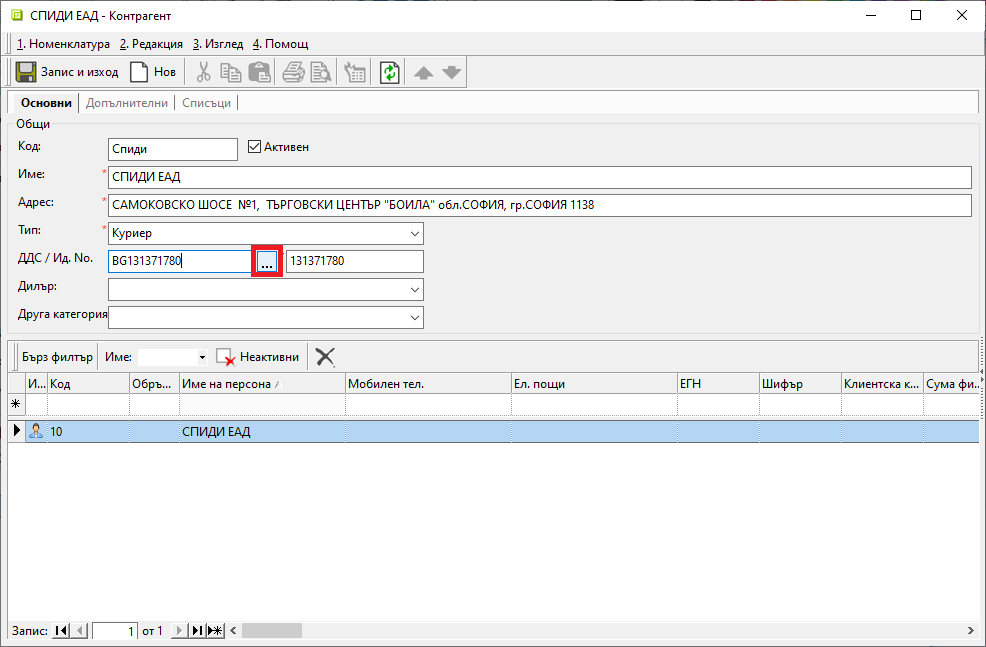
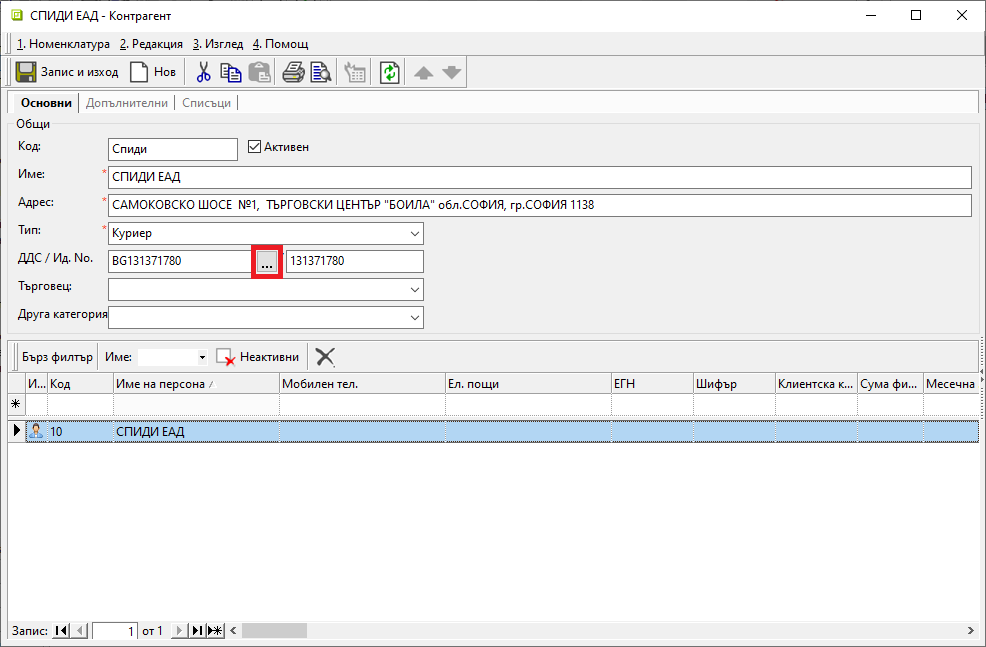
Редактиране от "дилър" на "търговец"

diff --git a/guide/erp/001-ref/001-nomenclatures/002-contragents.md b/guide/erp/001-ref/001-nomenclatures/002-contragents.md
@@ -45,7 +45,7 @@
    Типовете контрагенти се  въвеждат предварително в системата от **Номенклатури » Референтни номенклатури » Търговска система: Типове контрагенти**.  
    - **ДДС/ Ид. No** – записва се ДДС или идентификационния номер (булстат) номер на контрагента.  
    Реквизитът е задължителен само в случаите, когато контрагентът е данъчно регистриран;  
-   - **Дилър** – в полето може да се настрои служител, отговарящ за отношенията с контрагента;  
+   - **Търговец** – в полето може да се настрои служител, отговарящ за отношенията с контрагента;  
    - **Група** - избира се към коя предварително въведена категория принадлежи контрагентът;  
 
    От реда за добавяне на нов запис се въвежда списък с *Персони*.  
@@ -87,11 +87,11 @@
    - **Контакт** - указва дали персоната на реда е основното (или по подразбиране) лице за контакт с текущия контрагент;  
    Само една персона може да бъде настроена като *Контакт*.  
    - **МОЛ** - чрез поставяне/махане на отметка персоната на реда се маркира като *МОЛ*;  
-   - **Дилър** - чрез поставяне/махане на отметка персоната на реда се маркира като *Дилър*;  
+   - **Търговец** - чрез поставяне/махане на отметка персоната на реда се маркира като *Търговец*;  
    - **МОЛ по подразбиране** - указва дали персоната на реда е МОЛ, който системата да предлага по подразбиране за контрагента;  
    Само една персона може да бъде настроена като *МОЛ по подразбиране*.     
-   - **Дилър по подразбиране** - указва дали персоната на реда е основен дилър, който системата да предлага по подразбиране за контрагента;  
-   Само една персона може да бъде настроена като *Дилър по подразбиране*.   
+   - **Търговец по подразбиране** - указва дали персоната на реда е основен търговец, който системата да предлага по подразбиране за контрагента;  
+   Само една персона може да бъде настроена като *Търговец по подразбиране*.   
    - **Активен** - чрез поставяне/махане на отметка персоната на реда се маркира като активна или неактивна номенклатура;    
    - **Допълнителен код** - полето може да се обзаведе с допълнителен код чрез десен бутон на реда и *Преведи*;  
    - **Допълнително име** - полето може да се обзаведе с допълнително наименование чрез десен бутон на реда и *Преведи*;  
@@ -220,7 +220,7 @@
     Системата актуализира списъка автоматично. Възможно е и ръчно коригиране на данните.  
     - **Мин/Макс количества** - настройката е активна за контрагенти от тип *Склад*;  
     Настройват се минимално и максимално допустимите количества за текущия склад. Използва се при генерация на заявки за дозареждане на склад.  
-    - **Търговци и обекти** - списък със служителите на *Потребител на продукта*, които могат да бъдат настроени като дилъри към конкретен обект на текущия контрагент;  
+    - **Търговци и обекти** - списък със служителите на *Потребител на продукта*, които могат да бъдат настроени като търговци към конкретен обект на текущия контрагент;  
     - **Прикачени файлове** - възможност за добавяне на множество прикачени файлове, предварително настроени в **Номенклатури » Медия каталог**;  
     
 В групи **Търговска система**, **Счетоводна система** и **Организация** са достъпни всички документи, генерирани в системата, с избрания контрагент.  

diff --git a/guide/erp/002-docs/002-trade-system/001-orders-sales-purchase-documents/001-sales-purchase-orders.md b/guide/erp/002-docs/002-trade-system/001-orders-sales-purchase-documents/001-sales-purchase-orders.md
@@ -24,7 +24,7 @@
 2) В раздел **Основни** на формата от поле **Док. Тип** се отваря падащ списък за избор на тип документ. Типът на документ определя какви свързани документи системата ще предложи за генериране при приключване на заявката.  
    От **Док. дата** се избира дата за документа, като това може да бъде текуща дата. В допълнителните реквизити има отделни полета с дати на доставка, експедиция и други. 
    
-   Останалите полета от секция *Собствени* се обзавеждат автоматично, когато в системата предварително са направени необходимите настройки. Това са реквизити **Дилър**, **Съставил** и **Обект**, в които се отварят падащи списъци за избор от персони и обекти.  
+   Останалите полета от секция *Собствени* се обзавеждат автоматично, когато в системата предварително са направени необходимите настройки. Това са реквизити **Търговец**, **Съставил** и **Обект**, в които се отварят падащи списъци за избор от персони и обекти.  
    
    Реквизит **Контрагент** се попълва според типа на въвежданата заявка. в полето се отваря форма **Контрагенти**  за избор на клиент, доставчик или **Потребител на продукта** (при вътрешни заявки).  
    Ако търсеният контрагент не фигурира в списъка, системата позволява въвеждането му в момента чрез десен бутон и **Нов контрагент**.  
@@ -86,8 +86,8 @@
    - **Док. No** - полето се попълва с номер на документа;  
    Системата автоматично попълва пореден номер за текущия тип заявка при приключване на документа.  
    - **Док. дата** - в полето се избира дата, за която се отнася текущата заявка;  
-   - **Дилър** - в това поле може да се избере служител, който пряко отговаря за взаимоотношенията с текущия контрагент;  
-   Данните в полето се попълват автоматично, когато за избрания контрагент е настроен дилър по подразбиране.  
+   - **Търговец** - в това поле може да се избере служител, който пряко отговаря за взаимоотношенията с текущия контрагент;  
+   Данните в полето се попълват автоматично, когато за избрания контрагент е настроен търговец по подразбиране.  
    - **Съставил** - полето с падащ списък за избор от предварително настроен списък служители;  
    Данните в полето се попълват автоматично с настройките на текущия потребител.  
    - **Обект** - поле с падащ списък за избор на обект от предварително настроените в контрагент **Потребител на продукта**;  

diff --git a/guide/erp/003-rep/001-trade/009-balances-turnovers-of-contragents.md b/guide/erp/003-rep/001-trade/009-balances-turnovers-of-contragents.md
@@ -24,8 +24,8 @@
  - **Групиране** – от избора на групировка зависи колко детайлна информация ще представи справката;  
     - *По контрагенти* - представените данните включват вземанията и задълженията по контрагенти в началото и в края на периода, стойност на покупки, продажби и плащания, регистрирани през периода;    
     - *По контрагенти (подробна)* - при тази групировка справката представя разширена информация за плащанията в периода – каква сума е по покупки и продажби, каква част от плащанията не са свързани с други документи;    
-    - *По дилър* - данните за всеки контрагент са разпределени по дилър, като е добавена информация за процент на събираемост на вземания и задължения;   
-    - *Общо по дилъри* -  тази групировка дава обобщени суми с вземания и задължения за дилър без аналитичност по контрагенти;    
+    - *По търговец* - данните за всеки контрагент са разпределени по търговец, като е добавена информация за процент на събираемост на вземания и задължения;   
+    - *Общо по търговци* -  тази групировка дава обобщени суми с вземания и задължения за търговец без аналитичност по контрагенти;    
 
 2) В раздел **Контрагент** на формата може да бъде избран един или няколко контрагента за филтър на справката.
 
@@ -34,7 +34,3 @@
 След показване на справката на екран може да бъде отворен и **Картон на контрагент** с детайлна информация по документи.  
 Това става от изглед **Списък с данни** - върху реда с избран контрагент чрез двоен клик на мишката или чрез десен бутон се избира **Картон на контрагент**.
 
-___  
-## Свързани статии
-
-[Салда и обороти на контрагенти](https://www.unicontsoft.com/cms/node/197)

diff --git a/guide/erp/002-docs/002-trade-system/001-orders-sales-purchase-documents/003-create-sales-document.md b/guide/erp/002-docs/002-trade-system/001-orders-sales-purchase-documents/003-create-sales-document.md
@@ -42,7 +42,7 @@
 > Реквизит **Обект** е водещ при номериране на документите за продажба.  
 > Настройката се дефинира в **Администрация » Номератори** и е различна за всеки обект.   
 
-Полето **Дилър** показва персона, която отговаря за бизнес отношенията с избрания клиент.  
+Полето **Търговец** показва персона, която отговаря за бизнес отношенията с избрания клиент.  
 
 В секция *Купувач* се попълват реквизитите, свързани с клиента.  
 За обзавеждане на поле **Контрагент** се отваря форма за избор от списък с въведените в системата контрагенти. Ако търсеният контрагент липсва, системата позволява въвеждането му в момента.  
@@ -157,7 +157,7 @@
    - **Плащане** - поле с падащ списък за избор на начин на плащане;  
    - **Падеж** - поле за дата на падеж на плащане по продажбата;  
    Дата на падеж може да се обзаведе автоматично, ако са направени настройки за контрагента - клиент.  
-   - **Дилър** - падащ списък за избор на служител, който пряко отговаря за взаимоотношенията с текущия контрагент;  
+   - **Търговец** - падащ списък за избор на служител, който пряко отговаря за взаимоотношенията с текущия контрагент;  
    - **Съставил** - избор на лице, съставило документа, от предварително настроен списък със служители;  
    Данните в полето се попълват автоматично с настройките на текущия потребител.  
    - **Обект** - поле с падащ списък за избор на обект;  

diff --git a/guide/erp/003-rep/001-trade/007-sales-payments.md b/guide/erp/003-rep/001-trade/007-sales-payments.md
@@ -28,7 +28,7 @@
  Системата показва в справката единствено документите, съставени от избраните служители.  
  
  - **Групиране** - от падащия списък в полето се избира вид за групиране на справката;  
- Спрямо избрания вид групировка системата променя шаблона на справката. Добавя допълнителна информация за обект, дилър и детайли за просрочени вземания.  
+ Спрямо избрания вид групировка системата променя шаблона на справката. Добавя допълнителна информация за обект, търговец и детайли за просрочени вземания.  
 
     ![](907-sales-payments1.png){ class=align-center }
 
@@ -62,4 +62,4 @@
 
 2) Раздел **Продукт/материал/услуга** - от този раздел са достъпни критерии за справката *Продукти и материали*, *Типове продукти*, *Дименсии* и *Разходен център*;  
 
-3) Раздел **Контрагент** - в този раздел на филтър формата има възможност за избор на един или няколко клиента по обект, дилър и други;  
+3) Раздел **Контрагент** - в този раздел на филтър формата има възможност за избор на един или няколко клиента по обект, търговец и други;  

diff --git a/guide/erp/001-ref/004-settings/001-users.md b/guide/erp/001-ref/004-settings/001-users.md
@@ -131,7 +131,7 @@
     Ако полето е празно, потребителят не може да извършва картови плащания през мобилните устройства.  
     - **Транспортно средство** - указва транспортното средство за потребителя, което се предлага по подразбиране;  
     - **Достъп до данни** - указва достъп до собствените или достъп до всички документи на контрагентите от настроения пул;   
-    Ако полето е празно, дилърът има достъп само до издадените от него документи.  
+    Ако полето е празно, търговецът има достъп само до издадените от него документи.  
     - **Пул контрагенти** - указва групите контрагенти, до които потребителят има достъп;  
     Това са дименсиите, които служат за филтри при експорт на номенклатурата на контрагентите и обектите от Dreem за потребителя.  
     - **Пул контрагенти по подразбиране** - указва дименсия по подразбиране при добавяне на нов контрагент през мобилното приложение;  

diff --git a/guide/erp/003-rep/001-trade/008-sales-realization.md b/guide/erp/003-rep/001-trade/008-sales-realization.md
@@ -35,7 +35,7 @@
 
 2) Раздел **Продукт/материал/услуга** - от този раздел са достъпни критерии за справката *Продукти и материали*, *Типове продукти*, *Дименсии* и *Разходен център*;  
 
-3) Раздел **Контрагент** - в този раздел на филтър формата има възможност за избор на един или няколко клиента по обект, дилър и други;  
+3) Раздел **Контрагент** - в този раздел на филтър формата има възможност за избор на един или няколко клиента по обект, търговец и други;  
 
 ![](908-sales-realization5.png){ class=align-center w=15cm } 
 

diff --git a/start/008-sales-doc-import.md b/start/008-sales-doc-import.md
@@ -74,7 +74,7 @@
     Обект доставчик
     Банкова сметка
     Съставил
-    Дилър
+    Търговец
     МОЛ доставчик
     Код купувач
     *Купувач
